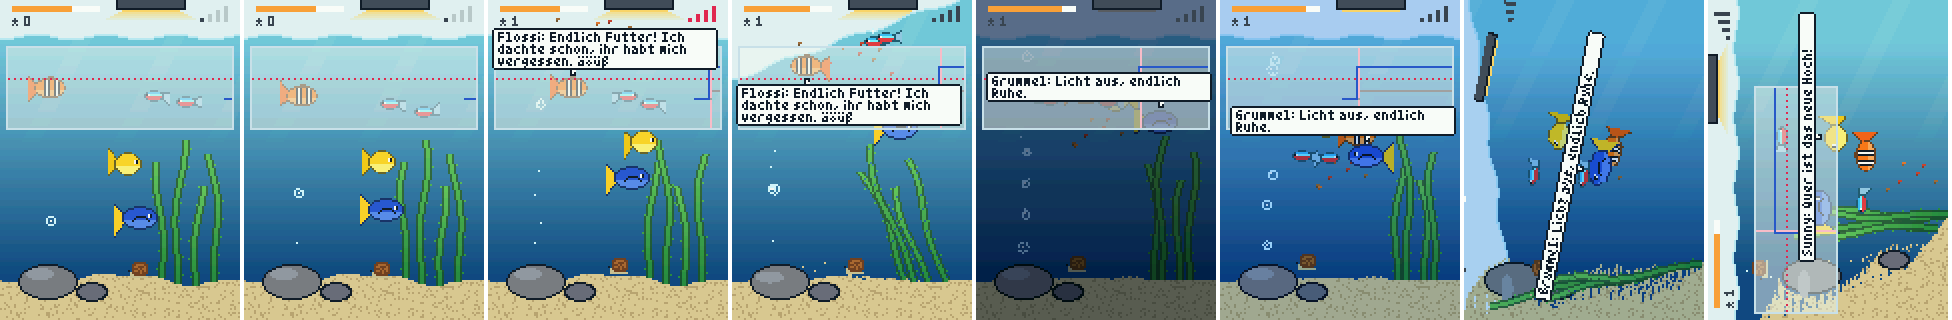
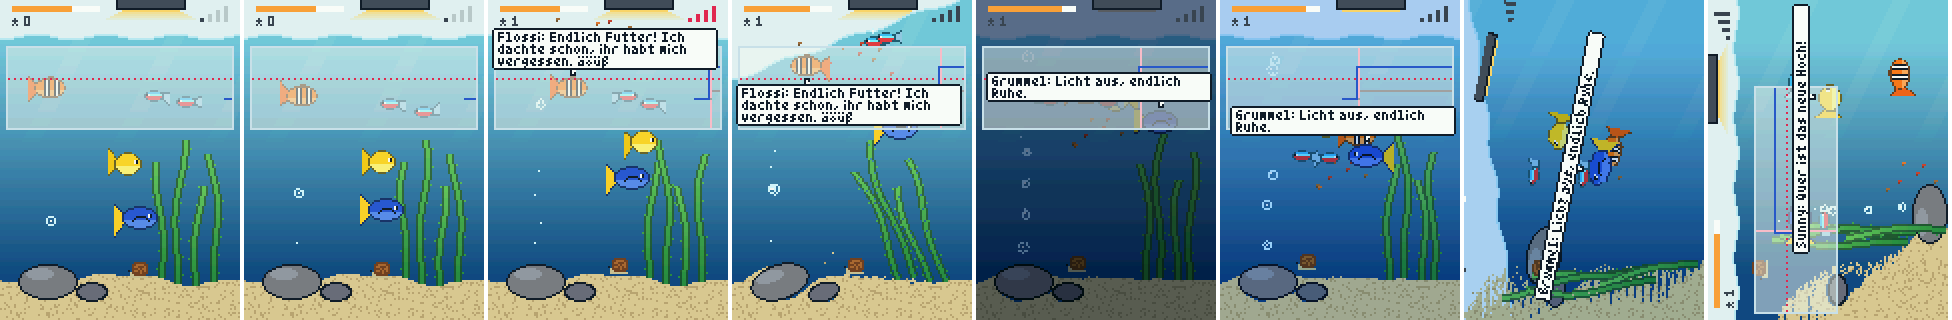
feat(tank): rocks turn onto their flat side when the tank turns
Each rock has its own angle and turns towards the new floor a little
each sand step, pushing grains in its way up and over. Rotated ellipses
are drawn and stamped one span per row, so this costs no more than the
upright rocks did.

diff --git a/firmware/mini_pet/pet.cpp b/firmware/mini_pet/pet.cpp
@@ -60,7 +60,8 @@ static struct {
   Bubble bubbles[BUBBLES] = {};
   Dust dust[DUST] = {};
   struct { float x, y, tx, ty; int dir; } snail = {70, SAND, 70, SAND, 1};
-  struct { int x, y; } rock[2] = {{24, SAND + 1}, {46, SAND + 6}}, weed[4] = {};  // rock centres, plant roots; both fall with the sand
+  struct { int x, y; float a; } rock[2] = {{24, SAND + 1, 0}, {46, SAND + 6, 0}};  // centre and turn; fall and roll with the sand
+  struct { int x, y; } weed[4] = {};  // plant roots, riding on top of the sand
   uint32_t last_ms = 0, last_feed = 0, last_approach = 0, last_visitor = 0, next_bubble = 0;
   float ripple_x = 0, ripple_y = 0;
   uint32_t ripple_t0 = 0;
@@ -201,23 +202,48 @@ static void solve_surface() {  // the level line that leaves the same air volume
 
 static float sand_top(int x) { return SAND + sinf(x * 0.08f) * 2.5f + sinf(x * 0.21f + 1) * 1.0f; }
 
-// Rock i's cells in the grid: v = ROCK stamps the free ones, v = 0 clears its ROCK cells.
-static void rock_mask(int i, uint8_t v) {
-  int cx = S.rock[i].x, cy = S.rock[i].y, rx = ROCK_R[i][0], ry = ROCK_R[i][1];
-  for (int y = cy - ry - 1; y <= cy + ry + 1; y++)
-    for (int x = cx - rx - 1; x <= cx + rx + 1; x++)
-      if (x >= 0 && x < CW && y >= 0 && y < CH && in_ell(x, y, cx, cy, rx, ry)) {
-        int g = cell(y * CW + x);
-        if (v ? !g : g == ROCK) put(y * CW + x, v);
-      }
+// Pixel spans of an ellipse with radii ex, ey turned by a about (cx, cy): row(y, x0, x1), one sqrt per row.
+// row returns false to stop early; the result says whether every row ran.
+template <class F> static bool ell_rows(float cx, float cy, float ex, float ey, float a, F row) {
+  float c = cosf(a), s = sinf(a), ix = 1 / (ex * ex), iy = 1 / (ey * ey);
+  float A = c * c * ix + s * s * iy, B = 2 * c * s * (ix - iy), D = s * s * ix + c * c * iy;
+  float R = ex > ey ? ex : ey;
+  for (int y = (int)floorf(cy - R), y1 = (int)ceilf(cy + R); y <= y1; y++) {
+    float dy = y + 0.5f - cy, b = B * dy, disc = b * b - 4 * A * (D * dy * dy - 1);
+    if (disc < 0) continue;
+    float r = sqrtf(disc);
+    int x0 = (int)ceilf(cx + (-b - r) / (2 * A) - 0.5f), x1 = (int)floorf(cx + (-b + r) / (2 * A) - 0.5f);
+    if (x0 <= x1 && !row(y, x0, x1)) return false;
+  }
+  return true;
 }
 
-static bool rock_fits(int i, int cx, int cy) {
-  int rx = ROCK_R[i][0], ry = ROCK_R[i][1];
-  for (int y = cy - ry - 1; y <= cy + ry + 1; y++)
-    for (int x = cx - rx - 1; x <= cx + rx + 1; x++)
-      if (in_ell(x, y, cx, cy, rx, ry) && solid(x, y)) return false;
-  return true;
+// Calls f(x, y) for every cell of rock i placed at (cx, cy) turned by a; stops early when f returns false.
+template <class F> static bool rock_cells(int i, int cx, int cy, float a, F f) {
+  return ell_rows(cx, cy, ROCK_R[i][0], ROCK_R[i][1], a, [&](int y, int x0, int x1) {
+    for (int x = x0; x <= x1; x++)
+      if (!f(x, y)) return false;
+    return true;
+  });
+}
+
+static bool in_rock(int i, int cx, int cy, float a, int x, int y) {
+  float c = cosf(a), s = sinf(a), dx = x + 0.5f - cx, dy = y + 0.5f - cy;
+  float u = (dx * c + dy * s) / ROCK_R[i][0], v = (dy * c - dx * s) / ROCK_R[i][1];
+  return u * u + v * v <= 1;
+}
+
+// Rock i's cells in the grid: v = ROCK stamps the free ones, v = 0 clears its ROCK cells.
+static void rock_mask(int i, uint8_t v) {
+  rock_cells(i, S.rock[i].x, S.rock[i].y, S.rock[i].a, [&](int x, int y) {
+    if (x >= 0 && x < CW && y >= 0 && y < CH && (v ? !cell(y * CW + x) : cell(y * CW + x) == ROCK)) put(y * CW + x, v);
+    return true;
+  });
+}
+
+static bool in_grid(int x, int y) { return x >= 0 && y >= 0 && x < CW && y < CH; }
+static bool rock_fits(int i, int cx, int cy, float a, bool push_sand = false) {  // push_sand: only glass and rocks block
+  return rock_cells(i, cx, cy, a, [&](int x, int y) { return !solid(x, y) || (push_sand && in_grid(x, y) && cell(y * CW + x) != ROCK); });
 }
 
 static void fill_sand() {
@@ -320,12 +346,29 @@ static int decor_step(float gx, float gy) {
     for (int k = 0; k < n; k++) {
       bool pair = k + 1 < n && d[k].k - d[k + 1].k < 1e-3f;
       int a = pair && (xr() & 1) ? k + 1 : k, b = a == k ? k + 1 : k;
-      int m = rock_fits(i, r.x + d[a].x, r.y + d[a].y) ? a : pair && rock_fits(i, r.x + d[b].x, r.y + d[b].y) ? b : -1;
+      int m = rock_fits(i, r.x + d[a].x, r.y + d[a].y, r.a) ? a : pair && rock_fits(i, r.x + d[b].x, r.y + d[b].y, r.a) ? b : -1;
       if (m >= 0) {
         r.x += d[m].x, r.y += d[m].y, moves++;
         break;
       }
       k += pair;
+    }
+    float turn = wrapf(-atan2f(gx, gy) - r.a), na = r.a + clampf(turn, -0.08f, 0.08f);  // flat side onto the new floor
+    if (fabsf(turn) > 0.04f && rock_fits(i, r.x, r.y, na, true)) {
+      rock_cells(i, r.x, r.y, na, [&](int x, int y) {  // grains in the way go up and over
+        if (int g = cell(y * CW + x)) {
+          put(y * CW + x, 0), count(x, y, -1);
+          for (int k = 1; k < 24; k++) {
+            int nx = (int)(x + 0.5f - gx * k), ny = (int)(y + 0.5f - gy * k);
+            if (!solid(nx, ny) && !in_rock(i, r.x, r.y, na, nx, ny)) {
+              put(ny * CW + nx, g), count(nx, ny, 1);
+              break;
+            }
+          }
+        }
+        return true;
+      });
+      r.a = na, moves++;
     }
     rock_mask(i, ROCK);
   }
@@ -719,7 +762,8 @@ void pet_update(const PetInput &in, PetOutput &out) {
     for (auto &b : S.bubbles)
       if (!b.live) {  // the bubbler on top of the big rock
         float o = rnd() * 3;
-        b = {S.rock[0].x - GX * 9 + GY * o, S.rock[0].y - GY * 9 - GX * o, 1 + rnd() * 1.6f, rnd() * 6.28f, true};
+        float c = cosf(S.rock[0].a), s = sinf(S.rock[0].a);
+        b = {S.rock[0].x + 9 * s + c * o, S.rock[0].y - 9 * c + s * o, 1 + rnd() * 1.6f, rnd() * 6.28f, true};
         break;
       }
     S.next_bubble = now + 250 + (uint32_t)(rnd() * 600);
@@ -775,12 +819,18 @@ static void draw_water(float t) {
       for (int x = 0; x < CW; x++)
         if (int g = cell(y * CW + x); g && g != ROCK) row[x] = SANDC[g];
   }
-  for (int i = 1; i >= 0; i--) {  // rocks, big one in front with a highlight up and to the left
-    float x = S.rock[i].x, y = S.rock[i].y, rx = ROCK_R[i][0], ry = ROCK_R[i][1];
-    ell(x, y, rx, ry, OUTLINE);
-    ell(x, y, rx - 1, ry - 1, i ? rgb(105, 110, 120) : rgb(120, 125, 135));
-    bool side = fabsf(GX) > fabsf(GY);
-    if (!i) ell(x - 4 * GY - 4 * GX, y + 4 * GX - 4 * GY, side ? 3 : 7, side ? 7 : 3, rgb(150, 155, 165));
+  for (int i = 1; i >= 0; i--) {  // rocks turned with their own angle; the big one in front, lit up and to the left
+    const auto &k = S.rock[i];
+    float c = cosf(k.a), s = sinf(k.a), rx = ROCK_R[i][0], ry = ROCK_R[i][1];
+    auto blob = [&](float ox, float oy, float ex, float ey, uint16_t col) {  // ellipse at rock-local offset, turned by a
+      ell_rows(k.x + ox * c - oy * s, k.y + ox * s + oy * c, ex, ey, k.a, [&](int y, int x0, int x1) {
+        for (int x = x0; x <= x1; x++) px(x, y, col);
+        return true;
+      });
+    };
+    blob(0, 0, rx, ry, OUTLINE);
+    blob(0, 0, rx - 1, ry - 1, i ? rgb(105, 110, 120) : rgb(120, 125, 135));
+    if (!i) blob(-4, -4, 7, 3, rgb(150, 155, 165));
   }
 }
 

diff --git a/README.md b/README.md
@@ -16,7 +16,7 @@ A pixel-art aquarium on a 2.8" touch display. To feed the fish, you walk up to i
 - **Fish with needs.** Hungry fish chase the flakes and turn pale when they starve. A fish dies after 24 hours without food. Dead fish turn grey, roll belly up and float to the surface.
 - **Touch the glass.** A tap sends a ripple across the water and nearby fish dart away. Tap a dead fish to scoop it out. Tap the empty tank to stock five new fish.
 - **Remembers everything.** Fish state is saved to flash. After a power cut, the time spent powered off is caught up via NTP, so pulling the plug doesn't help.
-- **Real water and sand.** The surface stays level in any pose and sloshes back once. The sand is a grain simulation: tilt the device, turn it on its side or upside down and it slides over grain by grain into the new low corner. The rocks drop and roll with it, the plants ride on top of the sand and always grow upwards. Shake it and the top layer swirls up and sinks back. A hand's tremor is ignored, so nothing jitters while you hold it.
+- **Real water and sand.** The surface stays level in any pose and sloshes back once. The sand is a grain simulation: tilt the device, turn it on its side or upside down and it slides over grain by grain into the new low corner. The rocks drop, roll and turn onto their flat side, the plants ride on top of the sand and always grow upwards. Shake it and the top layer swirls up and sinks back. A hand's tremor is ignored, so nothing jitters while you hold it.
 - **Turn it sideways.** Fish, snail, HUD and speech bubbles turn smoothly to stay upright for you.
 - **Sleeps when nobody is around.** After 5 minutes without a touch, a phone or movement the screen fades out. Any of those wakes it; the first touch only wakes it.
 - **Day and night.** A tank lamp switches on at 07:00 and off at 22:00 local time; tap the lamp to switch it yourself. At night the tank and backlight dim and the fish sleep near the bottom.
